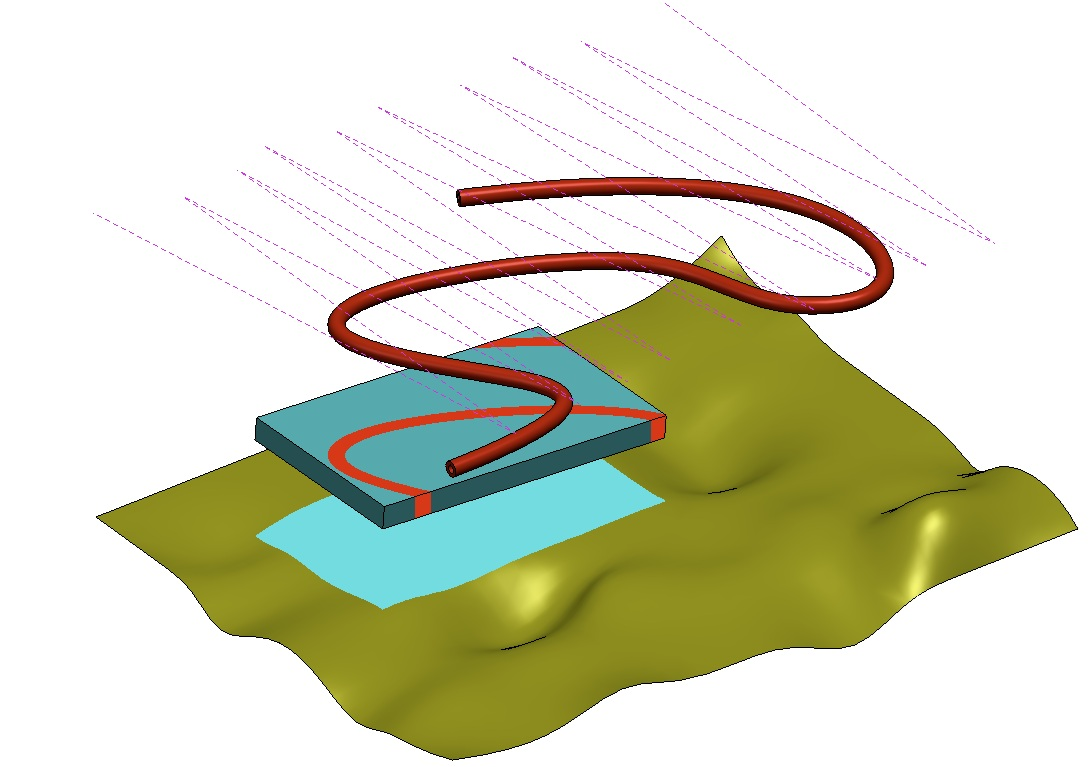
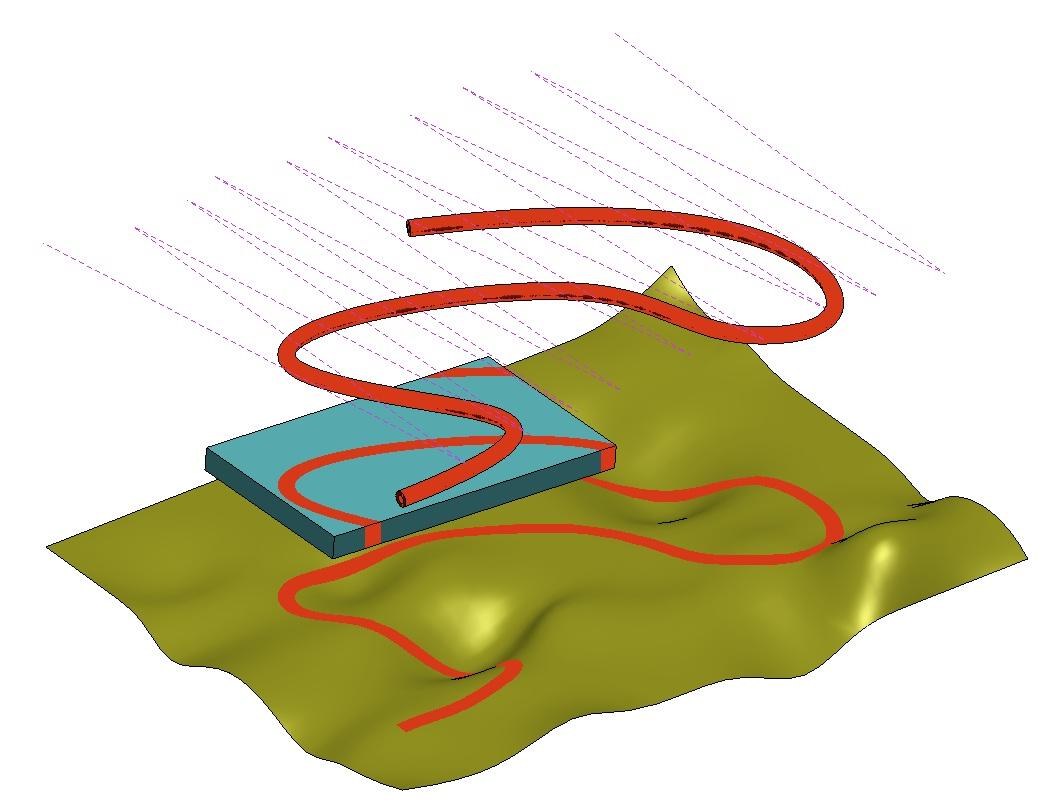
update screenshot and nextversion comment

diff --git a/docs/changehistory/NextVersion.md b/docs/changehistory/NextVersion.md
@@ -118,9 +118,9 @@ Here is a sample screenshot of draping a model from within an iModel (the piping
 
 ![model onto reality draping example](./assets/model-draping-onto-reality.jpg "Example of draping a model from within an iModel (the piping in the air) onto some glTF reality data (the terrain underneath)")
 
-Here is a sample screenshot of draping models from within an iModel onto other models from that same iModel. The red piping model is draping onto the blue slab model. The blue slab model is draping onto the terrain model. All of these models are contained within the same iModel.
+Here is a sample screenshot of draping a model from within an iModel onto all models from that same iModel. The red piping model is draping onto all models (even itself); all of these models are contained within the same iModel.
 
-![models onto models draping example](./assets/models-draping-onto-models.jpg "Example of draping models from within an iModel onto other models from that same iModel")
+![models onto models draping example](./assets/models-draping-onto-models.jpg "Example of draping models from within an iModel onto all models from that same iModel")
 
 ## Back-end image conversion
 
@@ -763,6 +763,7 @@ For more information read [Pull merge & conflict resolution](../learning/backend
   This flag has been removed. The cache is automatically cleared, and in cases when base classes change, there is a new `ECClass.cleanCache()` method.
 - Updated the `ECClass.getProperty` and `ECClass.getPropertySync` method signatures to include inherited properties by default, not exclude them. This aligns
   with `ECClass.getProperties/Sync()` signature.
+
   ```ts
   public async getProperty(name: string, excludeInherited: boolean = false): Promise<Property | undefined>
   ```
